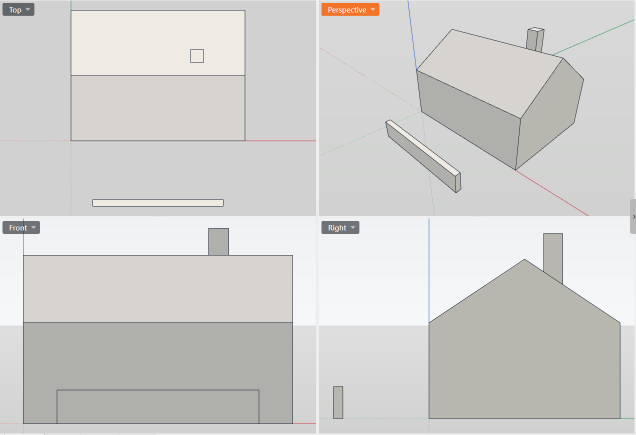
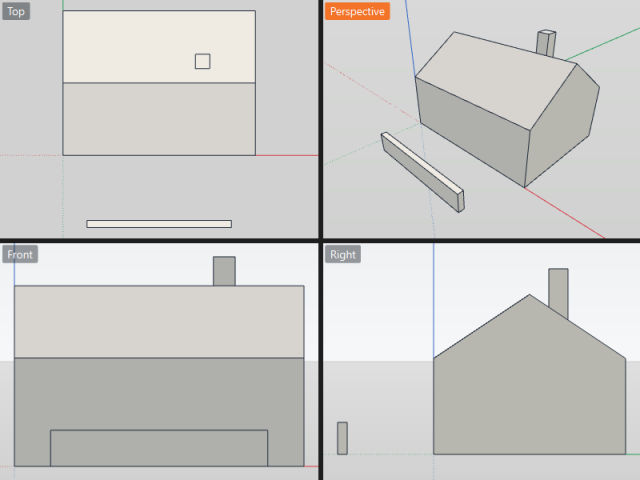
View layouts: Maximize and Restore in the label's menu, a smaller label
- Maximize comes first in a view's label menu, with Ctrl+Space shown beside
  it so that people learn the key; with the view filling the area the entry
  says Restore. The key and Window > Maximize view take the view under the
  pointer, else the one being worked in. A double-click on the label still
  does the same.
- The label covers less of the view: smaller type, no arrow, as wide as its
  name, closer to the corner and fainter until hovered.
- New messages in the 16 languages; guide, its picture and tests.

diff --git a/views/multi_view.py b/views/multi_view.py
@@ -20,12 +20,14 @@ is drawn, selected or undone in one shows in the four. Each picks up the
 window's tool when the mouse comes in, and its readouts (typed value,
 measurement, coordinates) and document changes reach the window through
 the main viewport's signals, as if it had happened there. Each cell has a
-small title that opens a menu of the standard views; a double-click on it
-fills the work area with that view and another brings the four back.
+small title that opens a menu: first the entry that fills the work area with
+that view and, then, brings the others back (Ctrl+Space, or a double-click on
+the title, does the same), and after it the standard views.
 """
 from __future__ import annotations
 
 from PySide6.QtCore import QEvent, QObject, QSize, Qt, Signal
+from PySide6.QtGui import QCursor, QKeySequence
 from PySide6.QtWidgets import (QFrame, QHBoxLayout, QMenu, QSizePolicy,
                                QSplitter, QToolButton, QVBoxLayout, QWidget)
 
@@ -63,18 +65,15 @@ def _apply_camera_state(cam, state: dict) -> None:
 
 
 #: The view's name as a small label over its top-left corner (not a strip
-#: above it): dark and translucent, in the accent colour for the view
-#: being worked in.
+#: above it), covering as little of the view as it can: small, no arrow, dark
+#: and faint until hovered, in the accent colour for the view being worked in.
 _CHIP = """
 QToolButton#viewChip {{
-    background: rgba(32, 36, 42, 0.62); color: white;
-    border: 0px; border-radius: 3px; padding: 1px 16px 1px 6px;
-    font-weight: 600;
+    background: rgba(32, 36, 42, 0.45); color: white;
+    border: 0px; border-radius: 2px; padding: 0px 4px;
+    font-size: 8pt;
 }}
-QToolButton#viewChip::menu-indicator {{
-    subcontrol-origin: padding; subcontrol-position: right center;
-    right: 4px;
-}}
+QToolButton#viewChip::menu-indicator {{ image: none; width: 0px; }}
 QToolButton#viewChip:hover {{ background: rgba(32, 36, 42, 0.82); }}
 QToolButton#viewChip[active="true"] {{ background: rgb({accent_rgb}); }}
 """
@@ -86,7 +85,7 @@ class _CellHeader(QToolButton):
     back)."""
 
     #: Distance (px) from the view's top-left corner.
-    MARGIN = 4
+    MARGIN = 2
 
     def __init__(self, cell) -> None:
         super().__init__(cell)
@@ -107,14 +106,31 @@ class _CellHeader(QToolButton):
         menu.aboutToShow.connect(self._fill)
         self.setMenu(menu)
 
+    def sizeHint(self):  # noqa: N802 — Qt override
+        """As wide as its name: Qt keeps room for the arrow it no longer has."""
+        self.ensurePolished()
+        hint = super().sizeHint()
+        hint.setWidth(self.fontMetrics().horizontalAdvance(self.text()) + 10)
+        return hint
+
     def _fill(self) -> None:
         menu = self.menu()
-        if menu.actions():
-            return
-        for key, label in VIEWS:
-            act = menu.addAction(tr(label))
-            act.triggered.connect(
-                lambda _c=False, k=key: self._cell.pick_view(k))
+        if not menu.actions():
+            self._maximize_action = menu.addAction("")
+            self._maximize_action.triggered.connect(
+                lambda _c=False: self._cell.grid.toggle_maximized(self._cell))
+            menu.addSeparator()
+            for key, label in VIEWS:
+                act = menu.addAction(tr(label))
+                act.triggered.connect(
+                    lambda _c=False, k=key: self._cell.pick_view(k))
+        # The key only shown, after a tab, so that people learn it: the
+        # window's action is the one that holds it.
+        text = self._cell.maximize_label()
+        act = getattr(self.window(), "_act_maximize_view", None)
+        if act is not None and not act.shortcut().isEmpty():
+            text += "\t" + act.shortcut().toString(QKeySequence.NativeText)
+        self._maximize_action.setText(text)
 
     def mouseDoubleClickEvent(self, ev) -> None:  # noqa: N802 — Qt override
         self._cell.grid.toggle_maximized(self._cell)
@@ -167,6 +183,10 @@ class ViewCell(QWidget):
         h.adjustSize()
         h.move(h.MARGIN, h.MARGIN)
         h.raise_()
+
+    def maximize_label(self) -> str:
+        return (tr("Restore") if self.grid.maximized_index() == self.index
+                else tr("Maximize"))
 
     def resizeEvent(self, ev) -> None:  # noqa: N802 — Qt override
         super().resizeEvent(ev)
@@ -428,7 +448,26 @@ class ViewGrid(QWidget):
         if not self.is_enabled():
             return
         self._maximized = None if self._maximized is cell else cell
+        self.set_active_cell(cell)
         self._apply()
+
+    def toggle_maximized_here(self) -> None:
+        """Ctrl+Space: back to the others if a view fills the area; else the view
+        under the pointer fills it, or the one being worked in, or the
+        window's own."""
+        if not self.is_enabled():
+            return
+        cell = self._maximized
+        if cell is None:
+            shown = [c for c in self.cells if not c.isHidden()]
+            at = QCursor.pos()
+            cell = next((c for c in shown
+                         if c.rect().contains(c.mapFromGlobal(at))), None)
+        if cell is None:
+            active = self.active_cell()
+            cell = (active if active is not None and not active.isHidden()
+                    else self.cells[1])
+        self.toggle_maximized(cell)
 
     def _apply(self) -> None:
         on = self.is_enabled()
@@ -466,6 +505,9 @@ class ViewGrid(QWidget):
             half = max(1, self.height() // 2)
             for col in (self.col_a, self.col_b):
                 col.setSizes([half, half])
+        sync = getattr(self.window(), "_sync_maximize_action", None)
+        if sync is not None:
+            sync()
         # The sidebar's handle sits on the views' edge: placed again once
         # the cells are laid out.
         place = getattr(self.window(), "_place_sidebar_handle", None)

diff --git a/tests/test_view_layouts.py b/tests/test_view_layouts.py
@@ -193,6 +193,86 @@ def test_a_views_name_is_a_small_label_over_its_corner(win):
     assert grid.active_cell() is cell
 
 
+def test_the_labels_menu_says_maximize_or_restore(win):
+    from core.i18n import tr
+    win.show()
+    win.set_view_layout("four")
+    QApplication.processEvents()
+    header = _grid(win).cells[2].header
+
+    def entry():
+        header.menu().aboutToShow.emit()
+        return header.menu().actions()[0]               # first of all
+    assert entry().text() == tr("Maximize") + "\tCtrl+Space"
+    assert header.menu().actions()[1].isSeparator()
+    assert entry().shortcut().isEmpty(), "the window's action holds the key"
+    entry().trigger()
+    assert _shown(win) == [2] and _grid(win).active_cell() is _grid(win).cells[2]
+    assert entry().text() == tr("Restore") + "\tCtrl+Space"
+    entry().trigger()
+    assert _shown(win) == [0, 1, 2, 3]
+    assert len(header.menu().actions()) == 10, "the views, once"
+
+
+def test_the_key_takes_the_view_under_the_pointer_and_comes_back(win, monkeypatch):
+    from PySide6.QtCore import QPoint
+    from PySide6.QtGui import QAction, QKeySequence
+    from core.i18n import tr
+    import views.multi_view as mv
+    act = win._act_maximize_view
+    assert act.shortcut() == QKeySequence("Ctrl+Space")
+    assert [a for a in win.findChildren(QAction)
+            if QKeySequence("Ctrl+Space") in a.shortcuts()] == [act]
+    assert not act.isEnabled(), "nothing to maximize with one view"
+    win.show()
+    win.set_view_layout("four")
+    QApplication.processEvents()
+    assert act.isEnabled()
+    cell = _grid(win).cells[3]
+    centre = cell.mapToGlobal(cell.rect().center())
+    monkeypatch.setattr(mv.QCursor, "pos", staticmethod(lambda: centre))
+    act.trigger()
+    assert _shown(win) == [3] and act.text() == tr("Restore views")
+    monkeypatch.setattr(mv.QCursor, "pos",
+                        staticmethod(lambda: QPoint(-9000, -9000)))
+    act.trigger()
+    assert _shown(win) == [0, 1, 2, 3] and act.text() == tr("Maximize view")
+    # Off the views: the one being worked in.
+    _grid(win).set_active_cell(_grid(win).cells[2])
+    act.trigger()
+    assert _shown(win) == [2]
+    act.trigger()
+    win.set_view_layout("single")
+    assert not act.isEnabled() and win._act_maximize_view.text() == tr("Maximize view")
+
+
+def test_each_project_keeps_its_maximized_view_and_the_action_follows(win):
+    from core.i18n import tr
+    win.show()
+    first = win._doc
+    win.set_view_layout("four")
+    QApplication.processEvents()
+    _grid(win).toggle_maximized(_grid(win).cells[0])
+    second = win._new_document()
+    QApplication.processEvents()
+    assert win._doc is second and not win._act_maximize_view.isEnabled()
+    win.activate_document(first)
+    QApplication.processEvents()
+    assert _shown(win) == [0]
+    assert win._act_maximize_view.text() == tr("Restore views")
+
+
+def test_a_views_label_covers_little_of_the_view(win):
+    win.show()
+    win.set_view_layout("four")
+    QApplication.processEvents()
+    header = _grid(win).cells[1].header
+    fm = header.fontMetrics()
+    assert header.height() <= fm.height() + 4
+    # Its name and the small padding: no room kept for an arrow.
+    assert header.width() <= fm.horizontalAdvance(header.text()) + 14
+
+
 def test_the_sidebar_handle_stays_on_the_views_edge(win):
     from PySide6.QtCore import QPoint
     win.show()

diff --git a/views/main_window.py b/views/main_window.py
@@ -1877,6 +1877,14 @@ class MainWindow(QMainWindow):
         self.addAction(tabs_action)
         window_menu.addAction(tabs_action)
         self._act_project_tabs = tabs_action
+        # With several views, the one under the pointer alone and back.
+        maximize_action = QAction(tr("Maximize view"), self)
+        maximize_action.setShortcut(QKeySequence("Ctrl+Space"))
+        maximize_action.setEnabled(False)
+        maximize_action.triggered.connect(self._toggle_maximized_view)
+        self.addAction(maximize_action)
+        window_menu.addAction(maximize_action)
+        self._act_maximize_view = maximize_action
 
         window_menu.addSeparator()
         # Ctrl+U: the units panel straight away (the Preferences page).
@@ -6649,6 +6657,25 @@ class MainWindow(QMainWindow):
         on = doc.view_layout != "single"
         if button.isChecked() != on:
             button.setChecked(on)
+        self._sync_maximize_action()
+
+    def _toggle_maximized_view(self) -> None:
+        grid = self._doc.view_grid
+        if grid is not None:
+            grid.toggle_maximized_here()
+
+    def _sync_maximize_action(self) -> None:
+        """Window ▸ Maximize view (Ctrl+Space): only with several views, and
+        Restore views while one fills the area."""
+        act = self.__dict__.get("_act_maximize_view")
+        doc = self.__dict__.get("_doc")
+        if act is None or doc is None:
+            return
+        grid = doc.view_grid
+        act.setEnabled(grid is not None and grid.is_enabled()
+                       and not self.is_empty())
+        full = grid is not None and grid.maximized_index() is not None
+        act.setText(tr("Restore views") if full else tr("Maximize view"))
 
     # ---- the active project's scenes as tabs (views/scene_tabs.py) --------
     def _refresh_scene_tabs(self) -> None:

diff --git a/docs/project-tabs.md b/docs/project-tabs.md
@@ -68,6 +68,7 @@ The project right-clicked comes to the front first, so **Save** and
 | Ctrl+Tab | With several projects, the next one; with one, the sheets |
 | Alt+E | The scene row of the project in front, on or off |
 | Alt+T | The project tabs, on or off |
+| Ctrl+Space | With several views, the one under the pointer alone, and back |
 
 ### Hiding the project tabs
 
@@ -134,9 +135,12 @@ as their panes. One view is always first; the rest go from the most used.
   does not mark the document as changed.
 - Every view shows its name in a small label in its corner; the view being
   worked in wears the accent colour. Click the label for the standard views
-  (Top, Front, Right, Back, Left, Bottom, Isometric, Perspective); a
-  double-click fills the area with that view, another brings the others
-  back. A view picked by hand stays through layout changes.
+  (Top, Front, Right, Back, Left, Bottom, Isometric, Perspective). A view
+  picked by hand stays through layout changes.
+- **Maximize**, first in the label's menu, makes the view fill the area; the
+  same entry then says **Restore** and brings the others back as they were.
+  **Ctrl+Space** does the same for the view under the pointer, as do
+  **Window ▸ Maximize view** and a double-click on the label.
 - All the views draw the same model with the same undo: what is drawn,
   selected or undone in one shows in all. Each view picks up the tool in
   hand as the mouse comes in.
